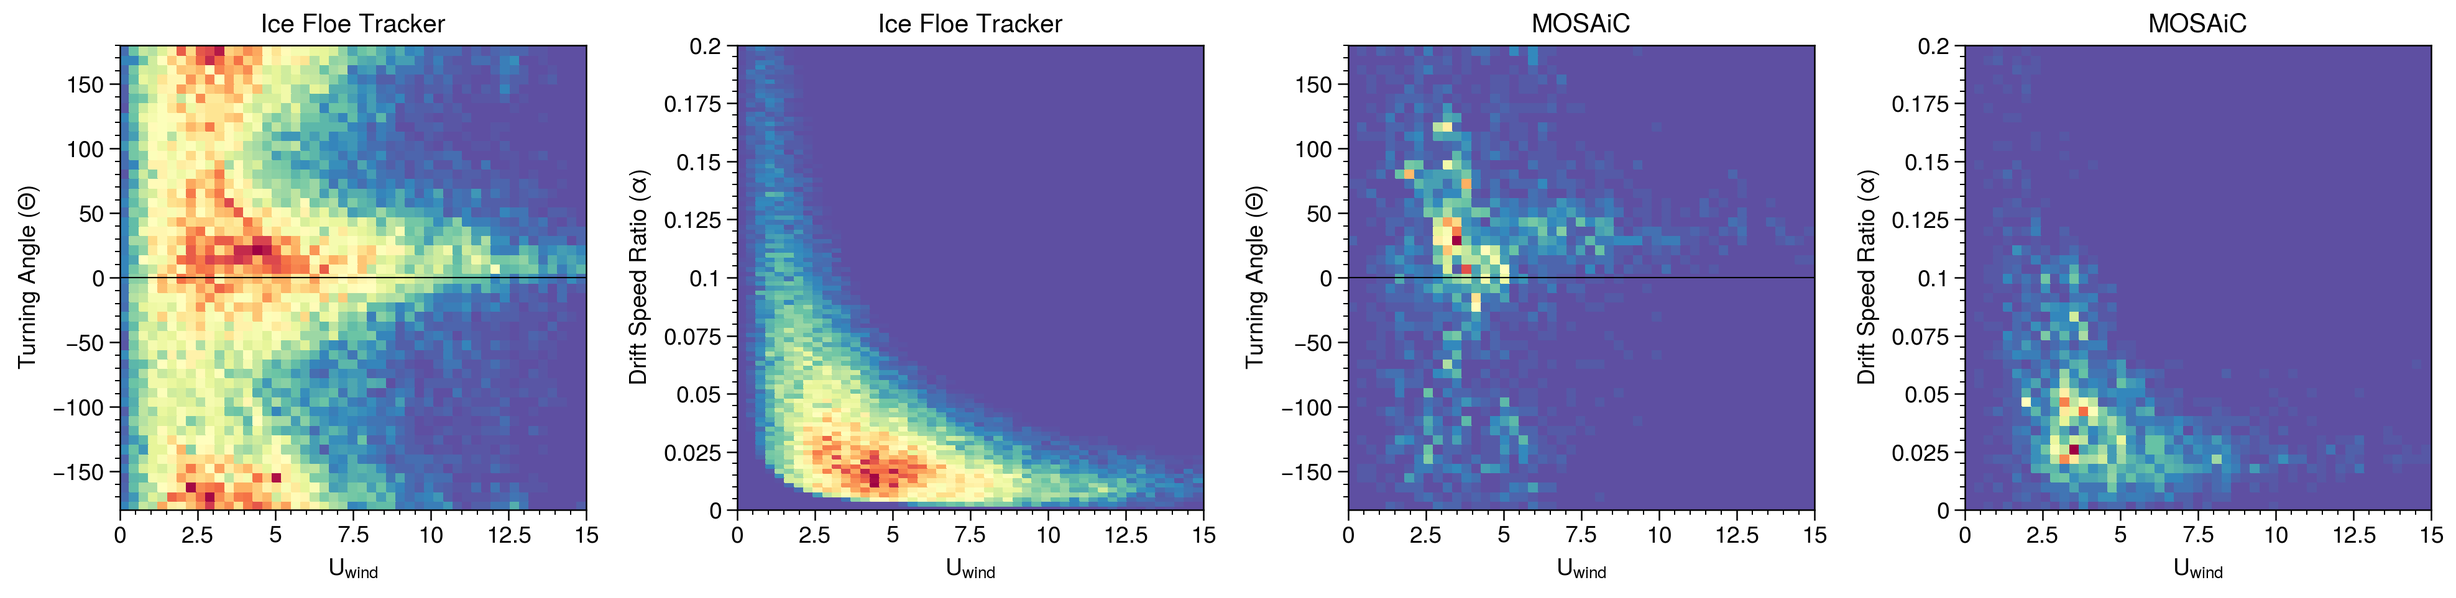
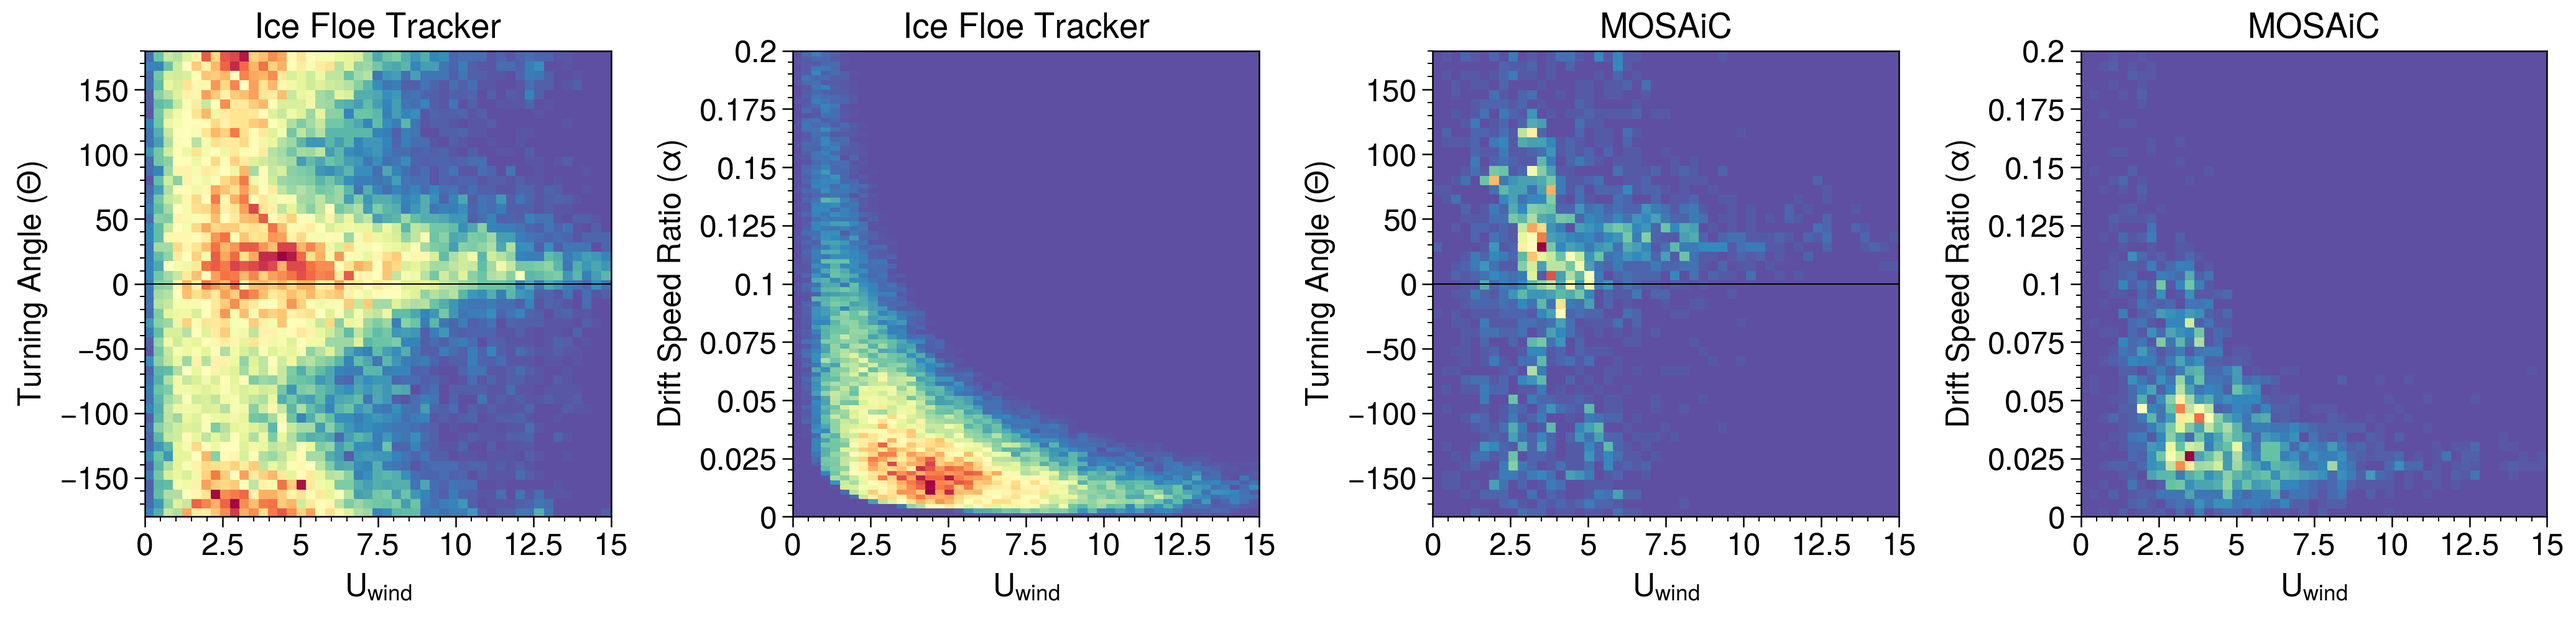
changed font size

diff --git a/scripts/figure3_subplots.py b/scripts/figure3_subplots.py
@@ -217,7 +217,7 @@ x = ax[3].hist2d(buoy_df['wind_speed'], buoy_df['drift_speed_ratio'], bins=[np.l
 ax[2].axhline(0, color='k', lw=0.5)
 ax[2].format(ylabel='Turning Angle ($\\Theta$)', xlabel='$U_{wind}$', title='MOSAiC')
 ax[3].format(ylabel='Drift Speed Ratio ($\\alpha$)', xlabel='$U_{wind}$', title='MOSAiC')
-fig.format(abc=False)
+fig.format(abc=False, fontsize=12)
 fig.save('../figures/figure3_ijk.png', dpi=300)
 
 print(buoy_df.info())
